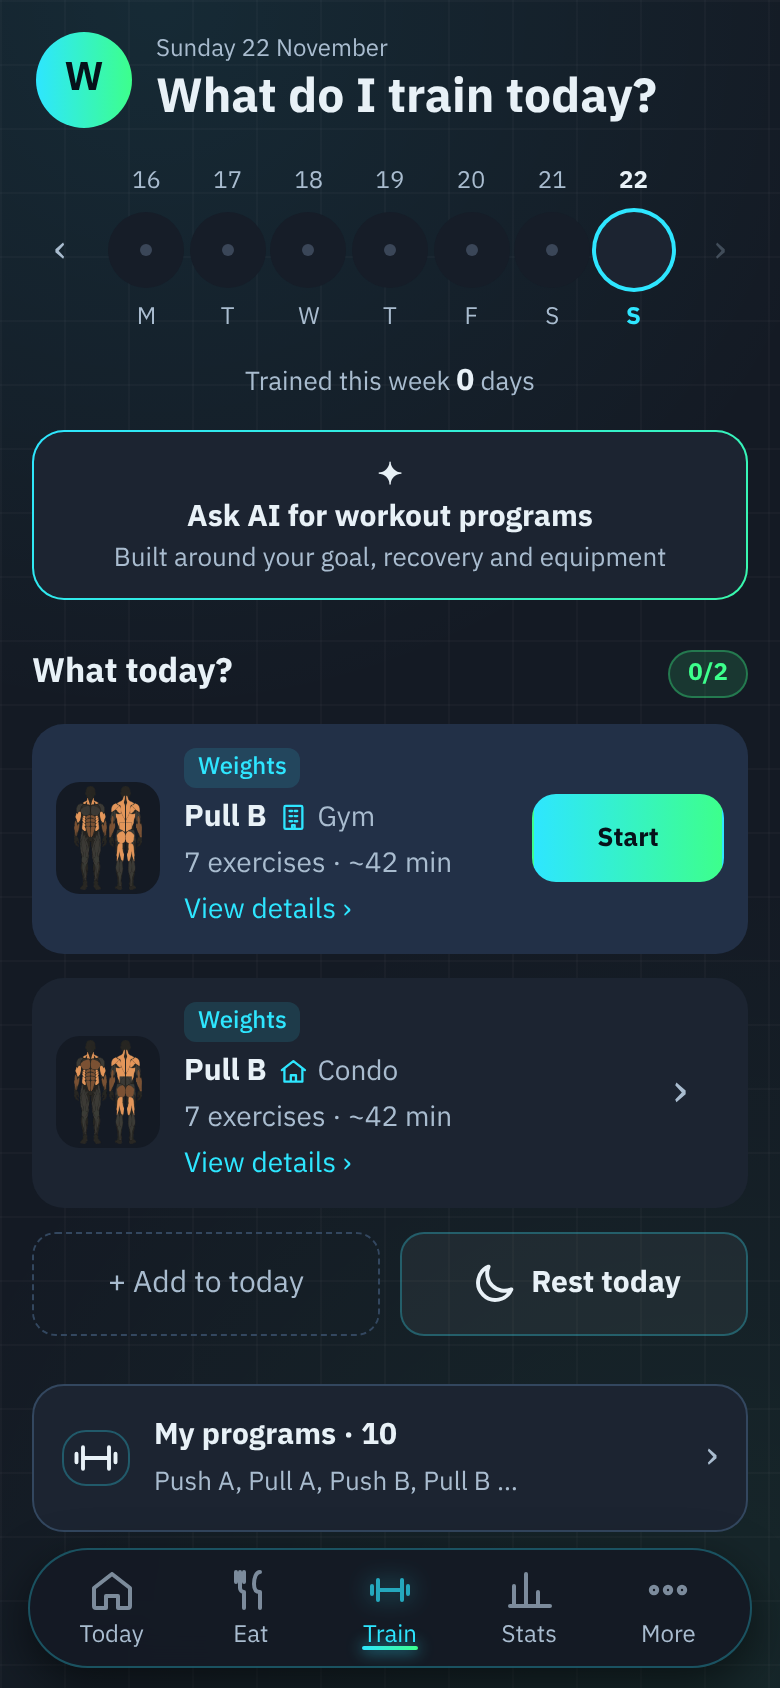
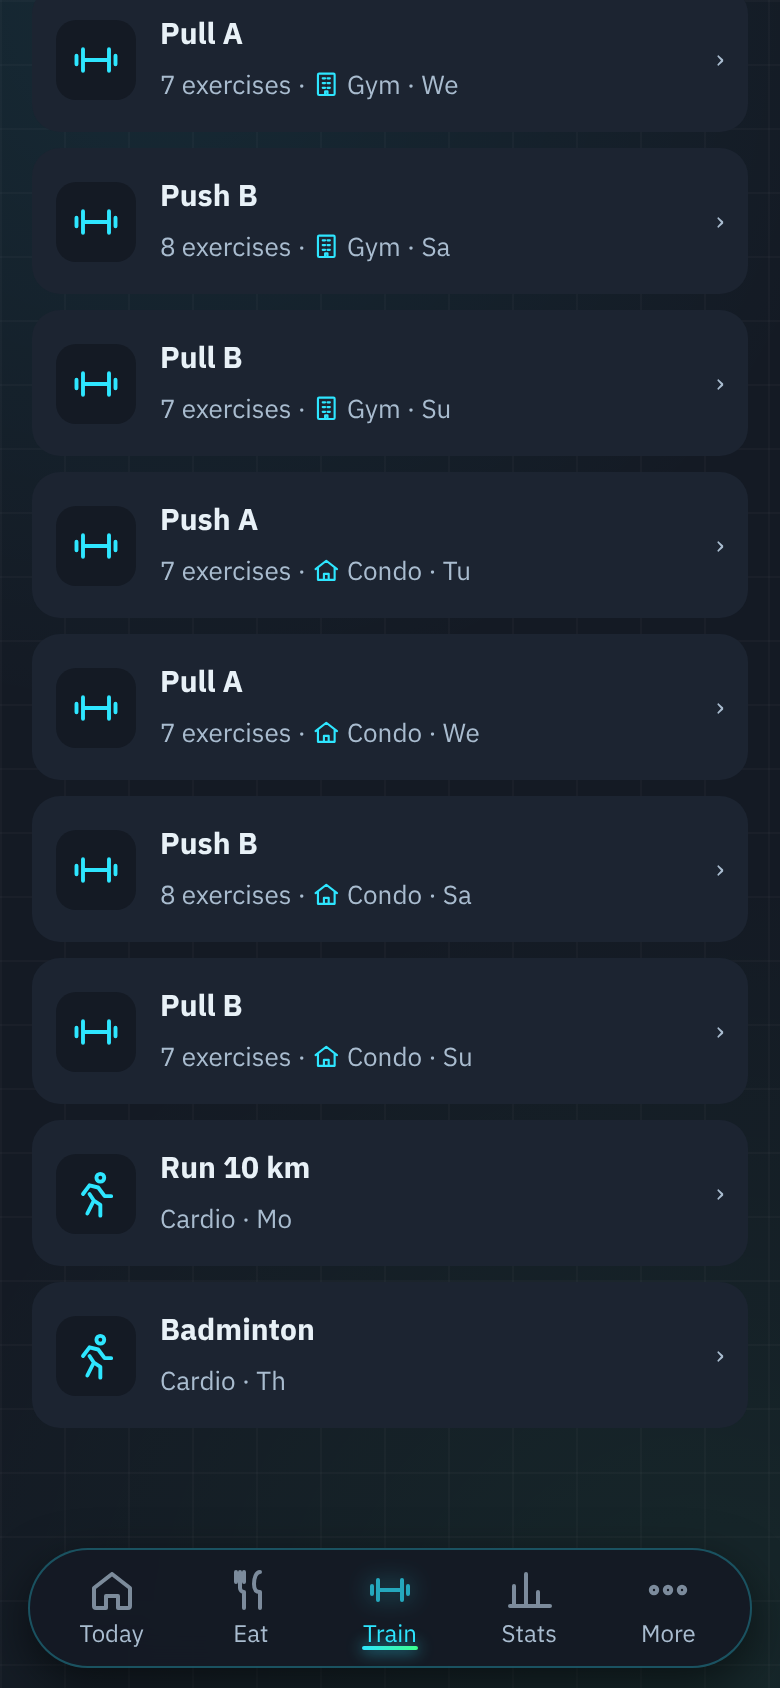
Train: list all my programs (#239)
* Today: body card shows the muscle map always, log + recovery buttons together, untrained = 100%

Claude-Session: https://claude.ai/code/session_01TA1QFnqgBxBRFsiXemJ9Lg

* Today: Details shows/hides the muscle map

Claude-Session: https://claude.ai/code/session_01TA1QFnqgBxBRFsiXemJ9Lg

* Today: body log + recovery-time buttons fold away with the muscle map

Claude-Session: https://claude.ai/code/session_01TA1QFnqgBxBRFsiXemJ9Lg

* Today: full muscle names, named next-ready muscle, no orphan chip, fat delta in points

Claude-Session: https://claude.ai/code/session_01TA1QFnqgBxBRFsiXemJ9Lg

* Today: list every plan item with its own Start, program preview always, tappable first weigh-in

Claude-Session: https://claude.ai/code/session_01TA1QFnqgBxBRFsiXemJ9Lg

* Today: 4W1H — why/what/where brief on top, cards answer how

Claude-Session: https://claude.ai/code/session_01TA1QFnqgBxBRFsiXemJ9Lg

* Revert "Today: 4W1H — why/what/where brief on top, cards answer how"

This reverts commit 59b5fcaa6f16d2f91d24c41901df7ca02b914979.

* Today: show where — place on each item, pick a place when a program is planned at several

Claude-Session: https://claude.ai/code/session_01TA1QFnqgBxBRFsiXemJ9Lg

* fix(Today): crash with an empty plan or on a rest day

Claude-Session: https://claude.ai/code/session_01TA1QFnqgBxBRFsiXemJ9Lg

* Train: remove the Share button from the header

Claude-Session: https://claude.ai/code/session_01TA1QFnqgBxBRFsiXemJ9Lg
[…]

diff --git a/public/index.html b/public/index.html
@@ -8,11 +8,11 @@
 <meta name="apple-mobile-web-app-status-bar-style" content="black-translucent">
 <meta name="apple-mobile-web-app-title" content="WeightGram">
 <link rel="manifest" href="/manifest.webmanifest">
-<link rel="apple-touch-icon" href="/apple-touch-icon.png?v=138668">
+<link rel="apple-touch-icon" href="/apple-touch-icon.png?v=138669">
 <title>WeightGram</title>
 <link rel="stylesheet" href="https://fonts.googleapis.com/css2?family=IBM+Plex+Sans+Thai:wght@400;500;700&family=IBM+Plex+Mono:wght@400;500&family=Share+Tech+Mono&display=swap">
 <style>:root{padding-top:env(safe-area-inset-top,0px);padding-bottom:env(safe-area-inset-bottom,0px)}*{-webkit-tap-highlight-color:transparent}body{margin:0;font-size:var(--t-sm);font-family:system-ui,sans-serif}img{max-width:100%}[hidden]{display:none!important}</style>
-<link rel="stylesheet" href="/css/app.css?v=138668">
+<link rel="stylesheet" href="/css/app.css?v=138669">
 </head><body>
 
 <div class="wrap">
@@ -283,39 +283,39 @@
   </div>
 </div>
 
-<script src="/js/core.js?v=138668"></script>
-<script src="/js/food.js?v=138668"></script>
-<script src="/js/locations.js?v=138668"></script>
-<script src="/js/programs.js?v=138668"></script>
-<script src="/js/run.js?v=138668"></script>
-<script src="/js/workout.js?v=138668"></script>
-<script src="/js/exercise-edit.js?v=138668"></script>
-<script src="/js/edit-tx.js?v=138668"></script>
-<script src="/js/exercise-library.js?v=138668"></script>
-<script src="/js/program-manager.js?v=138668"></script>
-<script src="/js/hero.js?v=138668"></script>
-<script src="/js/rest-timer.js?v=138668"></script>
-<script src="/js/auth.js?v=138668"></script>
-<script src="/js/push.js?v=138668"></script>
-<script src="/js/data-io.js?v=138668"></script>
-<script src="/js/sync.js?v=138668"></script>
-<script src="/js/muscle-map.js?v=138668"></script>
-<script src="/js/progress.js?v=138668"></script>
-<script src="/js/history-chart.js?v=138668"></script>
-<script src="/js/stats-extra.js?v=138668"></script>
-<script src="/js/meal-plan.js?v=138668"></script>
-<script src="/js/undo.js?v=138668"></script>
-<script src="/js/home.js?v=138668"></script>
-<script src="/js/share.js?v=138668"></script>
-<script src="/js/explore.js?v=138668"></script>
-<script src="/js/onboarding.js?v=138668"></script>
-<script src="/js/account.js?v=138668"></script>
-<script src="/js/share-card.js?v=138668"></script>
-<script src="/js/number-pad.js?v=138668"></script>
-<script src="/js/refresh.js?v=138668"></script>
-<script src="/js/app.js?v=138668"></script>
-<script src="/js/stats-calm.js?v=138668"></script>
-<script src="/js/ai-coach.js?v=138668"></script>
+<script src="/js/core.js?v=138669"></script>
+<script src="/js/food.js?v=138669"></script>
+<script src="/js/locations.js?v=138669"></script>
+<script src="/js/programs.js?v=138669"></script>
+<script src="/js/run.js?v=138669"></script>
+<script src="/js/workout.js?v=138669"></script>
+<script src="/js/exercise-edit.js?v=138669"></script>
+<script src="/js/edit-tx.js?v=138669"></script>
+<script src="/js/exercise-library.js?v=138669"></script>
+<script src="/js/program-manager.js?v=138669"></script>
+<script src="/js/hero.js?v=138669"></script>
+<script src="/js/rest-timer.js?v=138669"></script>
+<script src="/js/auth.js?v=138669"></script>
+<script src="/js/push.js?v=138669"></script>
+<script src="/js/data-io.js?v=138669"></script>
+<script src="/js/sync.js?v=138669"></script>
+<script src="/js/muscle-map.js?v=138669"></script>
+<script src="/js/progress.js?v=138669"></script>
+<script src="/js/history-chart.js?v=138669"></script>
+<script src="/js/stats-extra.js?v=138669"></script>
+<script src="/js/meal-plan.js?v=138669"></script>
+<script src="/js/undo.js?v=138669"></script>
+<script src="/js/home.js?v=138669"></script>
+<script src="/js/share.js?v=138669"></script>
+<script src="/js/explore.js?v=138669"></script>
+<script src="/js/onboarding.js?v=138669"></script>
+<script src="/js/account.js?v=138669"></script>
+<script src="/js/share-card.js?v=138669"></script>
+<script src="/js/number-pad.js?v=138669"></script>
+<script src="/js/refresh.js?v=138669"></script>
+<script src="/js/app.js?v=138669"></script>
+<script src="/js/stats-calm.js?v=138669"></script>
+<script src="/js/ai-coach.js?v=138669"></script>
 
 <div id="rec-wrap" class="stack" style="gap:10px" hidden><div class="rcf-head"><div class="sec-t" data-i="การฟื้นตัวของกล้ามเนื้อ">การฟื้นตัวของกล้ามเนื้อ</div><button class="btn sm" id="rec-cfg">⚙ <span data-i="ตั้งเวลาฟื้นตัว">ตั้งเวลาฟื้นตัว</span></button></div><div class="card" id="rec-body"></div></div>
 </body></html>

diff --git a/public/css/app.css b/public/css/app.css
@@ -1734,3 +1734,10 @@ body:has(#tx-bar:not([hidden])) :is(#pm-modal .modal-in,#gen-body,#lib-modal .mo
 #v-gym .ex .last{font-size:13px}
 #v-gym .note-in{min-height:36px!important;height:36px;padding:4px 0!important;font-size:14px!important;border:0!important;border-bottom:1px dashed var(--line)!important;background:none!important}
 #v-gym #step4 .btn,#v-gym #wo-add,#v-gym #edit-mode{min-height:40px!important;height:40px!important;border-radius:12px!important;padding:0 14px!important;font-size:15px!important}#v-gym #step4{gap:8px!important;margin:0!important}#v-gym #wo-add{margin:8px 0 0!important}#v-gym #step3 .step{margin-bottom:6px!important}
+/* all my programs on Train */
+.pl-allh{display:flex;align-items:center;justify-content:space-between;margin:20px 0 8px}.pl-allh .pl-h{margin:0!important}
+.pl-all{display:grid;gap:8px}
+.pl-ai-row{display:flex;align-items:center;gap:12px;width:100%;text-align:left;padding:12px;border:0;border-radius:14px;background:#1c2431;color:var(--text);cursor:pointer}
+.pl-ai-row .pa-ic{width:40px;height:40px;border-radius:10px;background:#141a24;display:grid;place-items:center;color:var(--cyan);flex:none}
+.pl-ai-row .pa-t{flex:1;min-width:0;display:grid;gap:2px}.pl-ai-row b{font-size:15px}.pl-ai-row small{color:var(--muted);font-size:13px;white-space:nowrap;overflow:hidden;text-overflow:ellipsis}
+.pl-ai-row .pa-c{color:var(--muted)}

diff --git a/docs/work/2026-11-21-train-calm/plan-all-programs.md b/docs/work/2026-11-21-train-calm/plan-all-programs.md
@@ -1,0 +1,2 @@
+# Train: list every program
+- [x] "My programs (N) · Manage ›" section lists every program: name, exercises/cardio, place, days; tap = view exercises (cardio = log)
